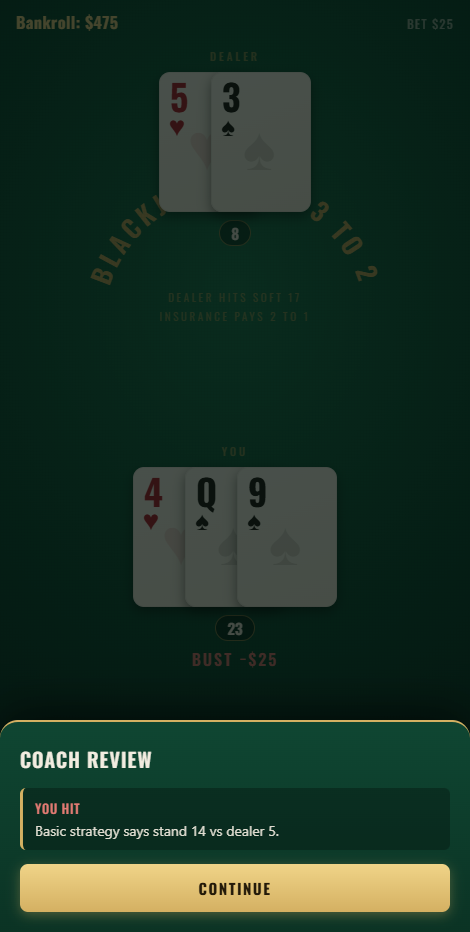
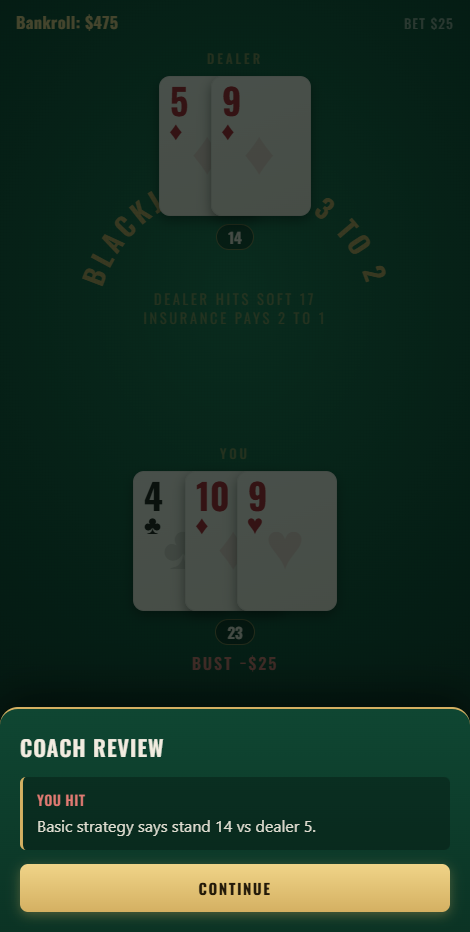
chore(site): refresh Blackjack Coach screenshots
Picks up the regenerated store screenshots. The player's hand changed from
4 + Queen to 4 + 10, so the alt text on the table screenshot was updated to
match; dimensions are unchanged, so the width/height attributes still hold.

diff --git a/blackjack-coach/index.html b/blackjack-coach/index.html
@@ -222,7 +222,7 @@ height="0" width="0" style="display:none;visibility:hidden"></iframe></noscript>
 
       <div class="shots">
         <figure>
-          <img src="/images/bjc-play.png" alt="Blackjack Coach table screen: dealer showing a 5, player holding 4 and Queen for 14, with Hit, Stand and Double buttons." width="470" height="932" loading="lazy">
+          <img src="/images/bjc-play.png" alt="Blackjack Coach table screen: dealer showing a 5, player holding 4 and 10 for 14, with Hit, Stand and Double buttons." width="470" height="932" loading="lazy">
           <figcaption>Play a hand</figcaption>
         </figure>
         <figure>
